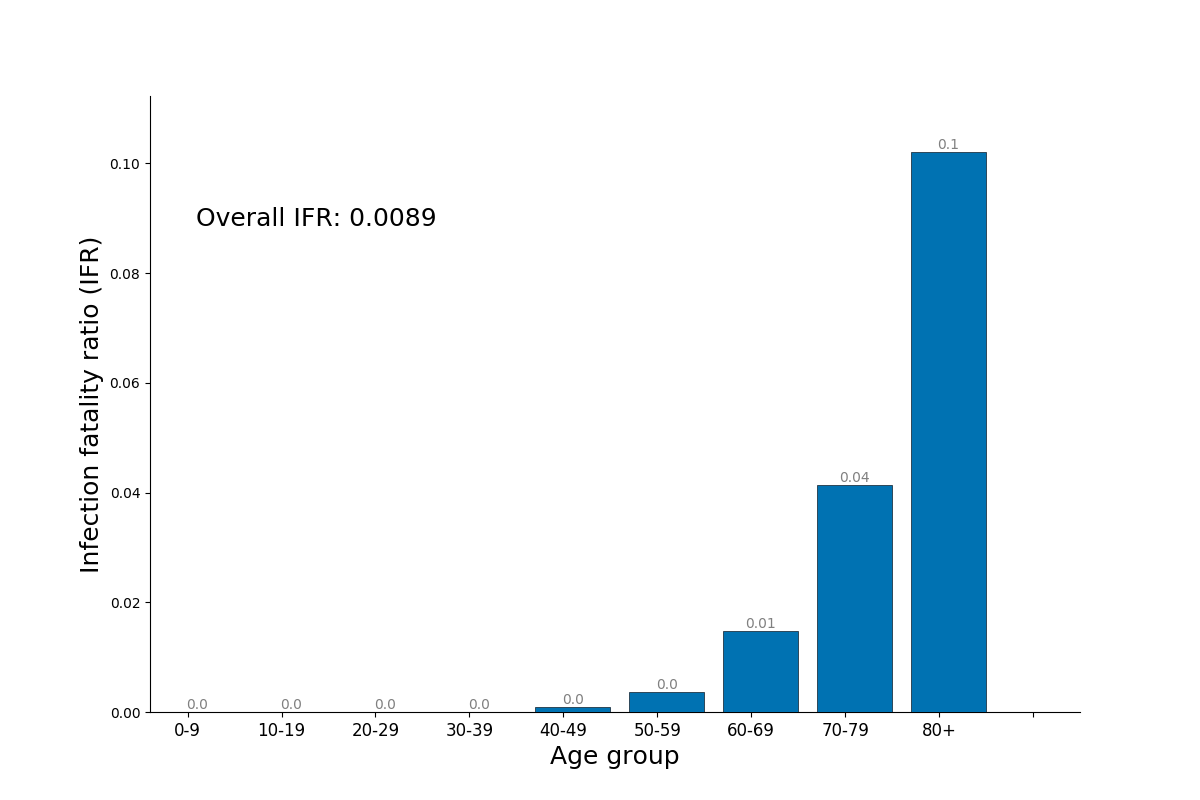
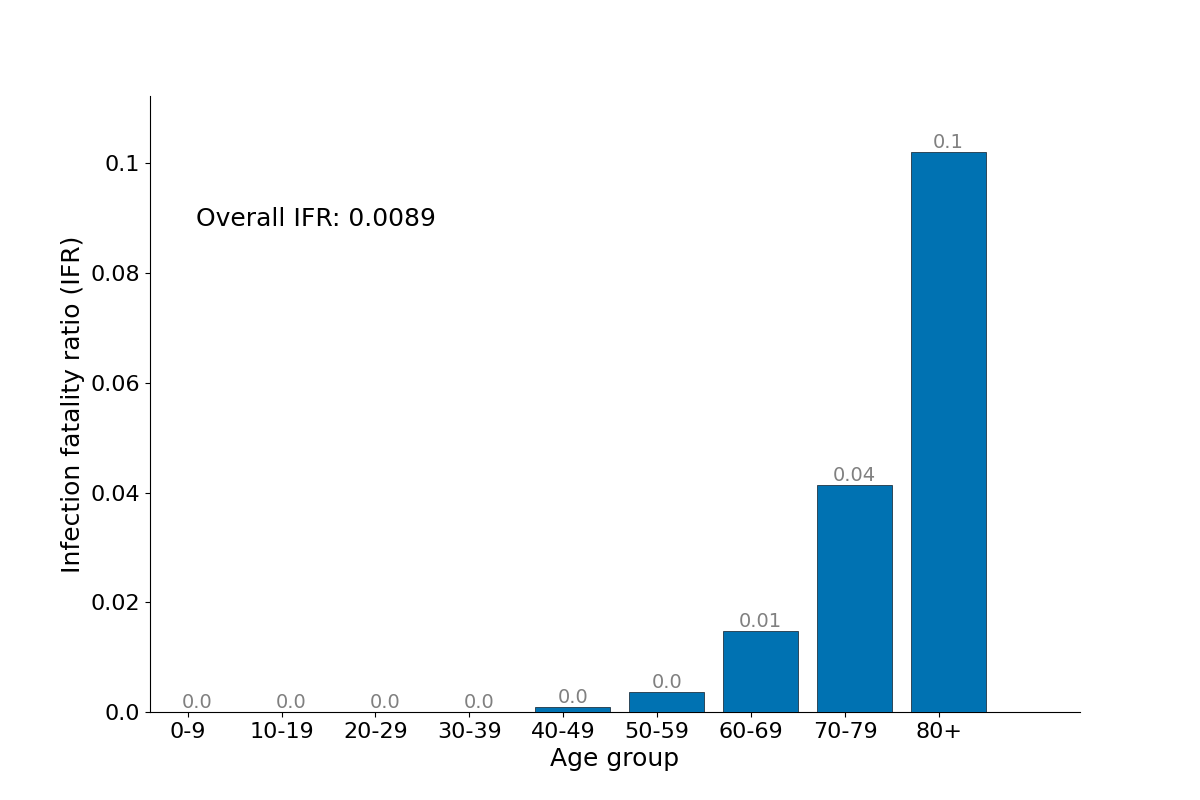
Update IFR figure to have larger font sizes

diff --git a/python/plotting.py b/python/plotting.py
@@ -355,8 +355,6 @@ def adjust_ticks(ax, xtick_fontsize = 12, ytick_fontsize = 12,
     return(ax)
 
 
-
-
 def PlotHistIFRByAge(df, 
         numerator_var, denominator_var,
         age_group_var = "age_group",
@@ -390,7 +388,7 @@ def PlotHistIFRByAge(df,
     
     for bi in range(n_age):
         ax.text(bi, heights[bi], str(np.round(heights[bi], 2)), 
-            ha = "center", va = "bottom", color = "grey")
+            ha = "center", va = "bottom", color = "grey", size = 14)
     
     ax.spines["top"].set_visible(False)
     ax.spines["right"].set_visible(False)
@@ -399,8 +397,11 @@ def PlotHistIFRByAge(df,
     ax.set_ylim([0, np.max(heights)*1.1])
     
     if xticklabels is not None:
-        ax.set_xticks(bins)
-        ax.set_xticklabels(xticklabels, size = 12)
+        ax.set_xticks(bins[:-1])
+        ax.set_xticklabels(xticklabels, size = 16)
+    
+    ax.set_yticks([0.0, 0.02, 0.04, 0.06, 0.08, 0.1])
+    ax.set_yticklabels([0.0, 0.02, 0.04, 0.06, 0.08, 0.1], size = 16)
     
     ax.set_xlabel(xlabel, size = 18)
     ax.set_ylabel(ylabel, size = 18)
@@ -410,9 +411,6 @@ def PlotHistIFRByAge(df,
         ha = 'left', va = 'center', transform = ax.transAxes, color = "black")
     
     return(fig, ax)
-
-
-
 
 
 def plot_parameter_assumptions(df_parameters, xlimits = [0, 30], lw = 3):
